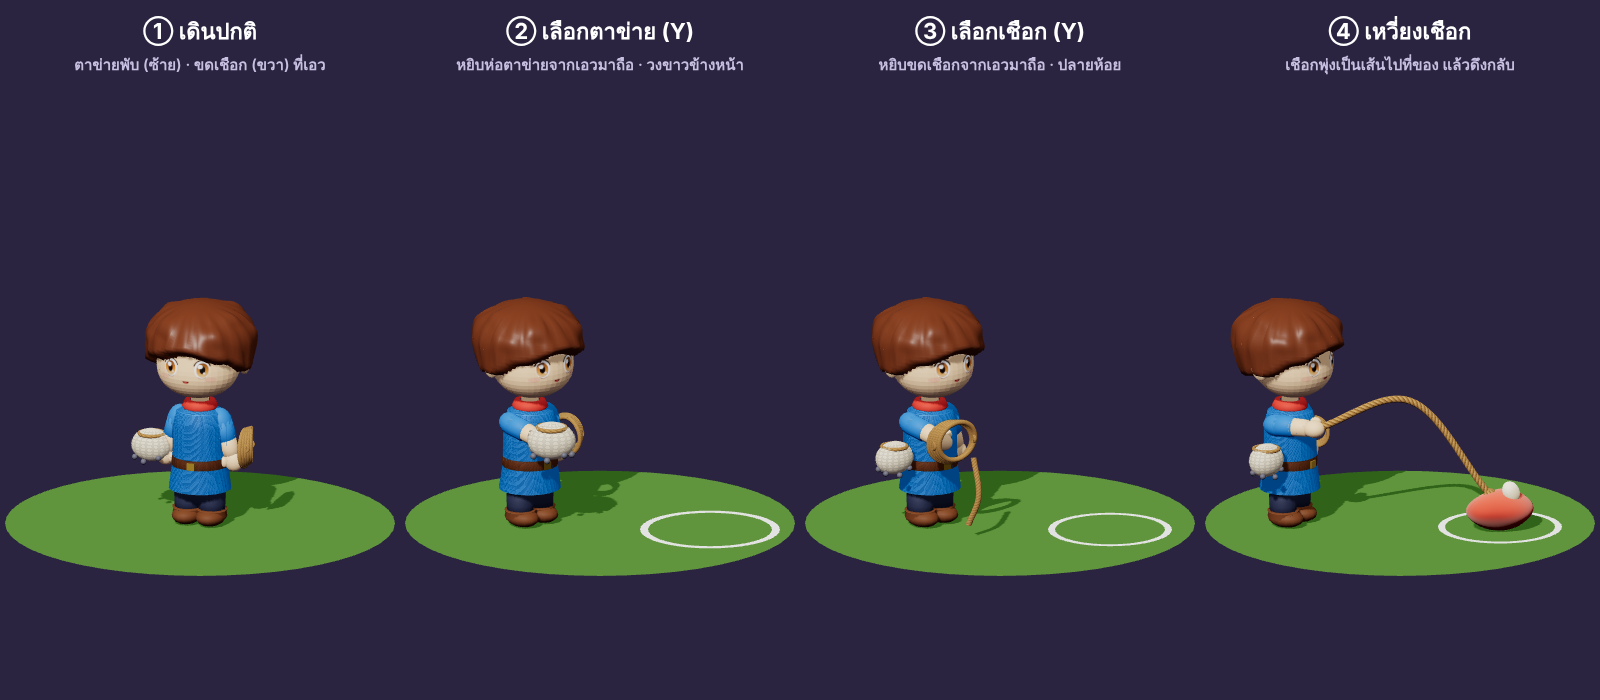
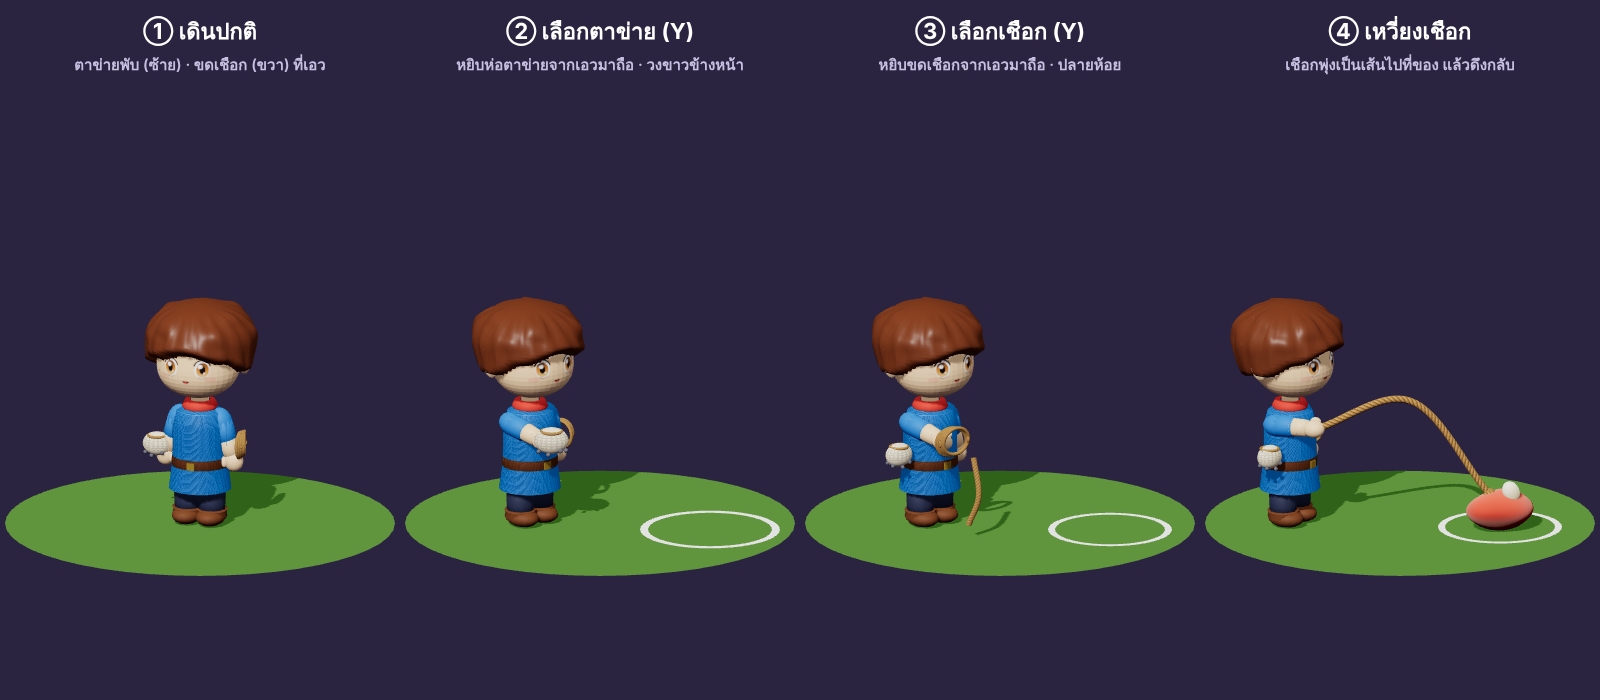
docs(newgame): mock: smaller net bundle and rope coil
Claude-Session: https://claude.ai/code/session_01GPWeNez232vT9ersFNk7wt

diff --git a/newgame/tools/art/ytools-char.html b/newgame/tools/art/ytools-char.html
@@ -32,7 +32,7 @@ const hero = (x, ry, arm) => { const g = new THREE.Group(); vinyl(g, look); cons
 const netPack = () => { const g = new THREE.Group(); const b = new THREE.Mesh(new THREE.SphereGeometry(.5, 20, 14), M('#e8dcc0', { roughness: 1 })); b.scale.set(1, .8, .75); g.add(b); const o = new THREE.Mesh(new THREE.SphereGeometry(.53, 20, 14), netMat([5, 4])); o.scale.copy(b.scale); g.add(o);
   for (let i = 0; i < 7; i++) { const a = i / 7 * 6.283, w = new THREE.Mesh(new THREE.SphereGeometry(.07, 10, 8), M('#7a7a88', { roughness: .4, metalness: .3 })); w.position.set(Math.cos(a) * .42, -.3 + Math.sin(i * 2.1) * .06, Math.sin(a) * .32); g.add(w) }
   const t = new THREE.Mesh(new THREE.TorusGeometry(.3, .045, 8, 20), ropeMat(4)); t.rotation.x = Math.PI / 2; t.position.y = .28; g.add(t); g.traverse(o => o.isMesh && (o.castShadow = true)); return g };
-const atHips = (g, s, kc = 1) => { const n = netPack(); n.scale.setScalar(.42 / s); n.position.set(-.5 / s, .7 / s, .04 / s); g.add(n); const c = coil(); c.scale.setScalar(.3 * kc / s); c.position.set(.5 / s, .76 / s, -.02 / s); c.rotation.set(0, Math.PI / 2 + .2, -.15); g.add(c) };
+const atHips = (g, s, kc = 1) => { const n = netPack(); n.scale.setScalar(.3 / s); n.position.set(-.44 / s, .72 / s, .04 / s); g.add(n); const c = coil(); c.scale.setScalar(.21 * kc / s); c.position.set(.44 / s, .78 / s, -.02 / s); c.rotation.set(0, Math.PI / 2 + .2, -.15); g.add(c) };
 const castNet = (cx, cz, y, R0, open) => { const geo = new THREE.SphereGeometry(R0, 28, 10, 0, Math.PI * 2, 0, Math.PI / (open ? 2.2 : 3.2)); const net = new THREE.Mesh(geo, netMat([6, 3])); net.scale.set(1, open ? .95 : .55, 1); net.position.set(cx, y, cz); net.castShadow = true; S.add(net);
   const th = Math.PI / (open ? 2.2 : 3.2); for (let i = 0; i < 24; i++) { const a = i / 24 * 6.283, rr = R0 * Math.sin(th); const w = new THREE.Mesh(new THREE.SphereGeometry(.05, 10, 8), M('#7a7a88', { roughness: .4, metalness: .3 })); w.position.set(cx + Math.cos(a) * rr, y + Math.cos(th) * R0 * net.scale.y, cz + Math.sin(a) * rr); S.add(w) } return net };
 const dots = (pts) => pts.forEach(p => { const sp = new THREE.Mesh(new THREE.SphereGeometry(.035, 6, 6), new THREE.MeshBasicMaterial({ color: '#ffffff' })); sp.position.copy(p); S.add(sp) });
@@ -41,11 +41,11 @@ const dots = (pts) => pts.forEach(p => { const sp = new THREE.Mesh(new THREE.Sph
 { ground(X[0]); const { g, s } = hero(X[0], -.35); atHips(g, s) }
 /* ② net chosen (Y): the bundle comes off the hip into the right hand, ready to throw · white circle ahead */
 { ground(X[1]); const { g, hp, s } = hero(X[1] - .7, .7, [-1.3, .15]); atHips(g, s); g.children.filter(c => c.children.length && c.scale.x < 1 && c.position.x < 0).forEach(c => c.visible = false);
-  const n = netPack(); n.scale.setScalar(.48); n.position.copy(hp).add(new THREE.Vector3(.08, .05, .12)); S.add(n);
+  const n = netPack(); n.scale.setScalar(.34); n.position.copy(hp).add(new THREE.Vector3(.08, .05, .12)); S.add(n);
   const ring = new THREE.Mesh(new THREE.RingGeometry(.62, .7, 40), new THREE.MeshBasicMaterial({ color: '#ffffff' })); ring.rotation.x = -Math.PI / 2; ring.position.set(X[1] + 1.1, GY + .02, .3); S.add(ring) }
 /* ③ rope chosen (Y): the coil comes off the hip into the right hand · loose end hanging · white circle ahead */
 { ground(X[2]); const { g, hp, s } = hero(X[2] - .7, .7, [-1.3, .15]); atHips(g, s); g.children.filter(c => c.children.length && c.scale.x < 1 && c.position.x > 0).forEach(c => c.visible = false);
-  const c = coil(); c.scale.setScalar(.36); c.position.copy(hp).add(new THREE.Vector3(.1, .05, .15)); c.rotation.set(.2, .4, 0); S.add(c);
+  const c = coil(); c.scale.setScalar(.25); c.position.copy(hp).add(new THREE.Vector3(.1, .05, .15)); c.rotation.set(.2, .4, 0); S.add(c);
   S.add(tube([hp.clone().add(new THREE.Vector3(.3, -.1, .2)), hp.clone().add(new THREE.Vector3(.35, -.5, .25)), hp.clone().add(new THREE.Vector3(.25, -.8, .2))], .03, 6));
   const ring = new THREE.Mesh(new THREE.RingGeometry(.55, .62, 40), new THREE.MeshBasicMaterial({ color: '#ffffff' })); ring.rotation.x = -Math.PI / 2; ring.position.set(X[2] + 1.1, GY + .02, .3); S.add(ring) }
 /* ④ the rope shoots out as a line to the dropped thing · the coil shrinks at the hip */
